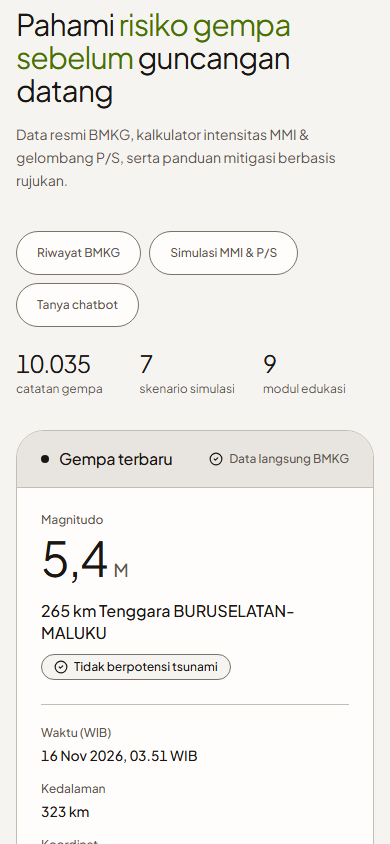
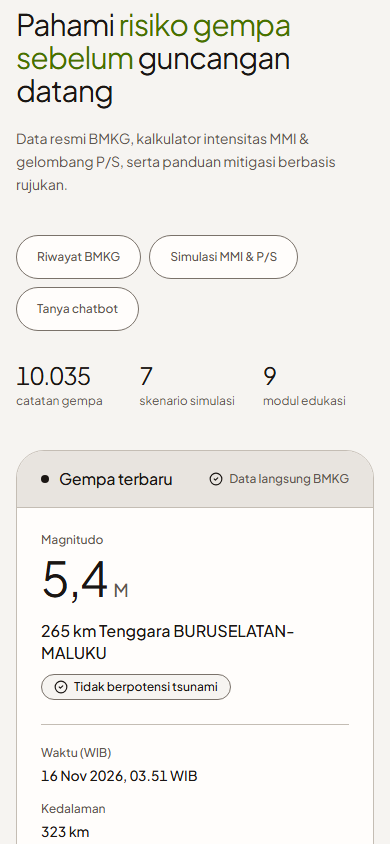
style(beranda): sesuaikan proporsi jarak vertikal kolom kiri section 2

diff --git a/src/app/page.tsx b/src/app/page.tsx
@@ -354,8 +354,8 @@ export default async function HomePage() {
           className="pt-2 sm:pt-4 lg:!mt-16 lg:min-h-[100svh] lg:flex lg:flex-col lg:justify-center lg:py-12"
         >
           {/* Dua kolom: heading kiri + data gempa terbaru kanan */}
-          <div className="grid items-stretch gap-8 lg:grid-cols-2 lg:gap-10">
-            <div className="flex flex-col justify-between gap-10 lg:py-1">
+          <div className="grid items-stretch gap-10 lg:grid-cols-2 lg:gap-12">
+            <div className="flex flex-col justify-between gap-10 sm:gap-14 lg:gap-40 lg:py-1">
               <div>
                 <h2
                   id="ringkasan-sigap-heading"
@@ -368,13 +368,13 @@ export default async function HomePage() {
                   </span>
                   <br className="hidden lg:inline" /> guncangan datang
                 </h2>
-                <p className="mt-4 max-w-[40ch] text-sm leading-relaxed text-[var(--color-text-secondary)]">
+                <p className="mt-5 sm:mt-6 max-w-[40ch] text-sm leading-relaxed text-[var(--color-text-secondary)]">
                   Data resmi BMKG, kalkulator intensitas MMI &amp; gelombang P/S,
                   serta panduan mitigasi berbasis rujukan.
                 </p>
               </div>
 
-              <div className="space-y-6 sm:space-y-8">
+              <div className="space-y-8 sm:space-y-10">
                 <div className="flex flex-wrap sm:flex-nowrap items-center gap-2 sm:gap-0 sm:-space-x-px">
                   {[
                     { href: "/riwayat", label: "Riwayat BMKG" },
